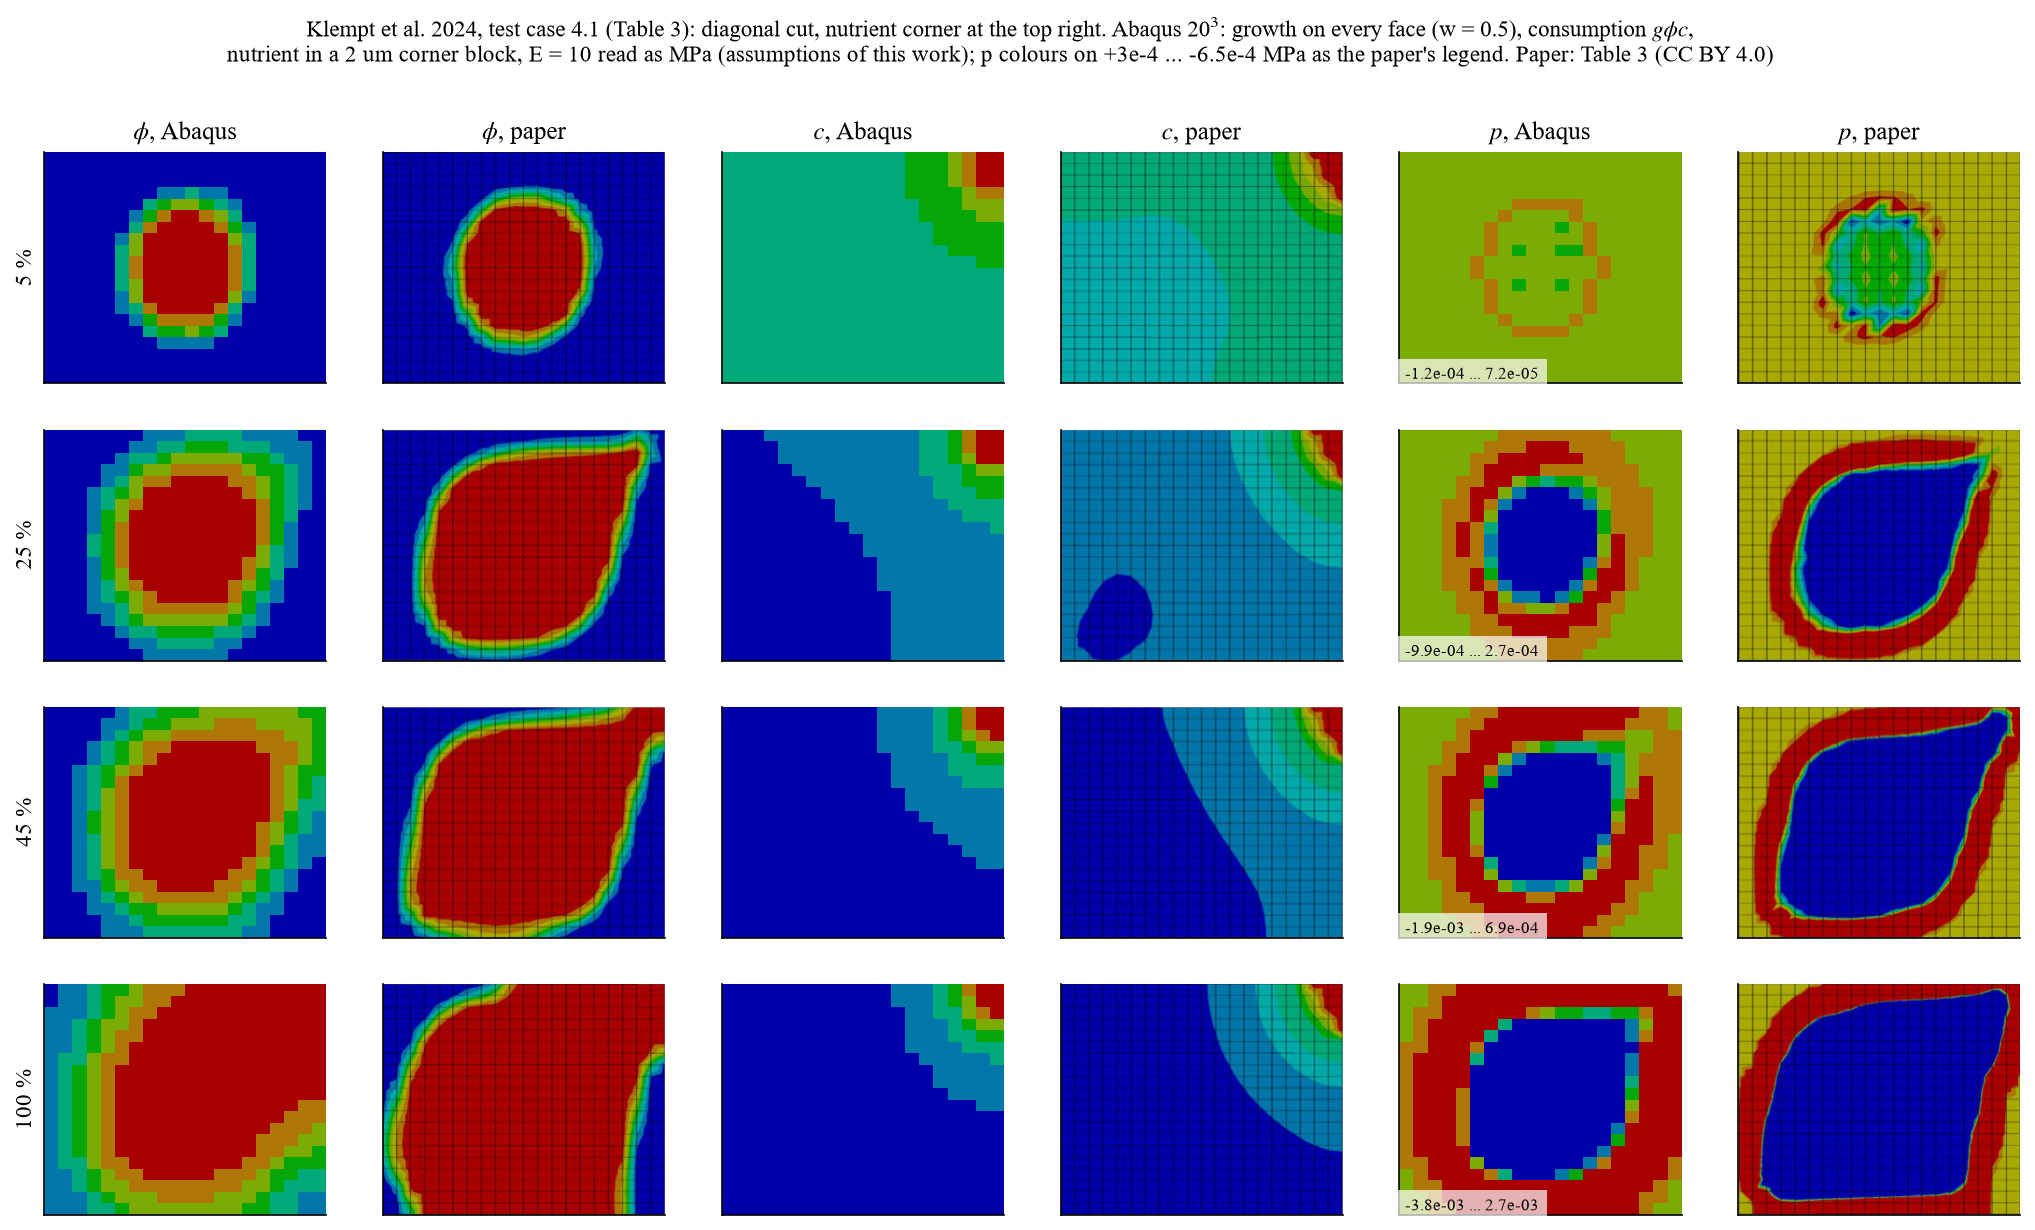
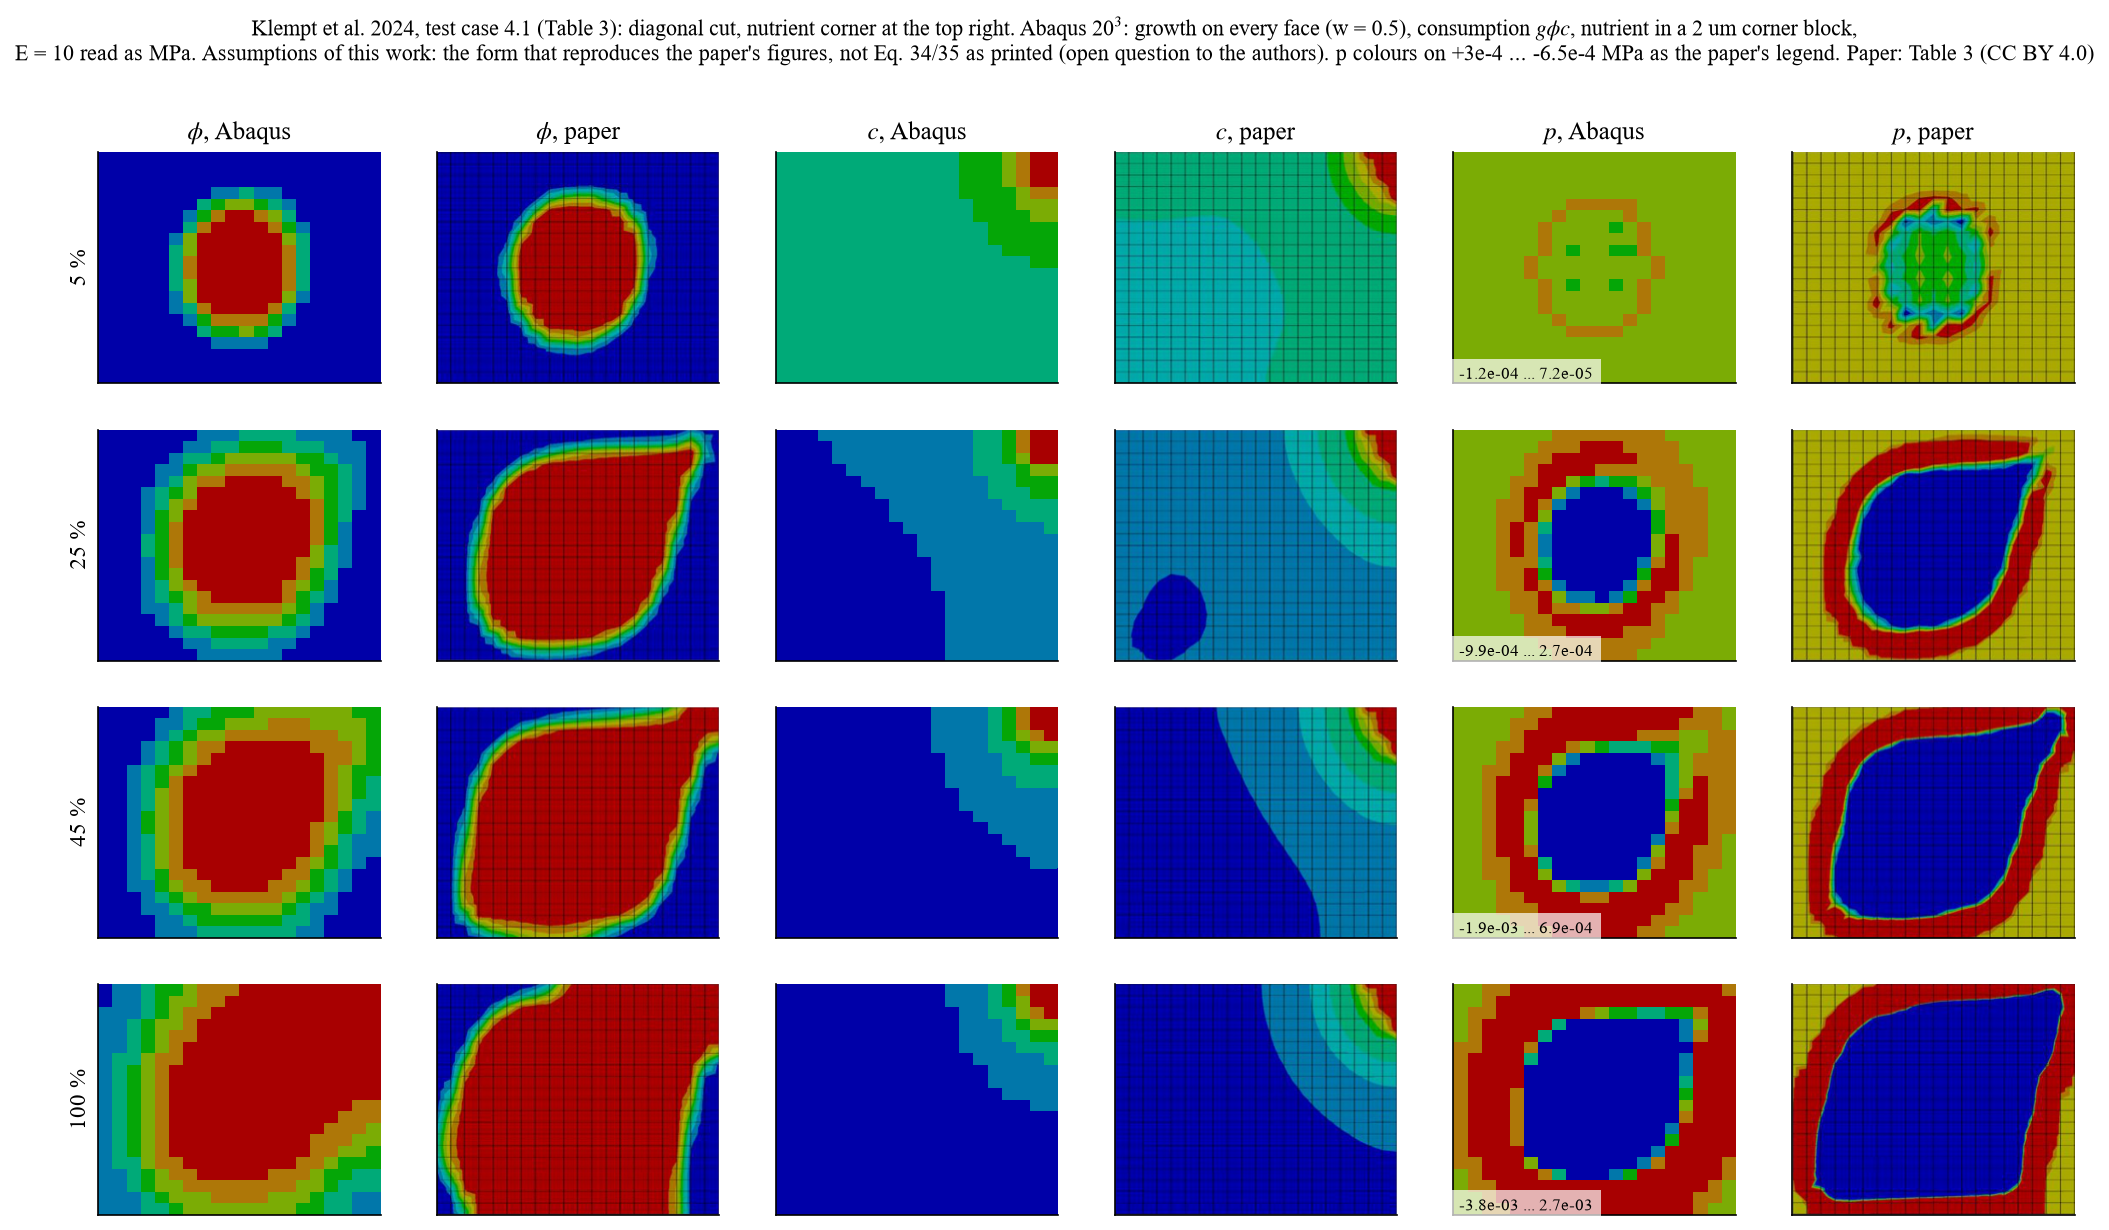
abaqus_composition: assumptions of the 6 Oct runs stated (front term form, consumption 6 as an example input); Table 3 figures say 'not as printed'

diff --git a/abaqus_composition/klempt_table3_fig.py b/abaqus_composition/klempt_table3_fig.py
@@ -103,9 +103,10 @@ def main(dat):
         ax[r, 4].text(0.02, 0.02, f"{p.min():.1e} ... {p.max():.1e}", transform=ax[r, 4].transAxes,
                       fontsize=8, color="k", bbox=dict(fc="w", ec="none", alpha=0.7))
     fig.suptitle("Klempt et al. 2024, test case 4.1 (Table 3): diagonal cut, nutrient corner at the top right. "
-                 "Abaqus 20$^3$: growth on every face (w = 0.5), consumption $g\\phi c$,\nnutrient in a 2 um corner "
-                 "block, E = 10 read as MPa (assumptions of this work); p colours on +3e-4 ... -6.5e-4 MPa as the "
-                 "paper's legend. Paper: Table 3 (CC BY 4.0)", fontsize=11)
+                 "Abaqus 20$^3$: growth on every face (w = 0.5), consumption $g\\phi c$, nutrient in a 2 um corner "
+                 "block,\nE = 10 read as MPa. Assumptions of this work: the form that reproduces the paper's figures, "
+                 "not Eq. 34/35 as printed (open question to the authors). p colours on +3e-4 ... -6.5e-4 MPa as "
+                 "the paper's legend. Paper: Table 3 (CC BY 4.0)", fontsize=10.5)
     fig.savefig(OUT, dpi=150)
     print("wrote", OUT)
 

diff --git a/abaqus_composition/README.md b/abaqus_composition/README.md
@@ -223,6 +223,22 @@ small-strain estimate. (p carries the spherical term of
 DEVIATOR_SCALING_FINDING.md, ~1.3 % at nu = 0.49.) The shapes agree in kind;
 the thin tip towards the corner is missing for every w (sec. 16).
 
+## Front term with two species; composition mesh series (6 Oct 2026, running)
+
+Runs one at a time on 4 CPUs (`F:\abaqus_work\_req_1006.ps1`), each result in
+`results_1006/<job>.txt` (`compare_ansys.py` measures; the ANSYS column is a
+reference only for 8^3). All: case 6, beta = 0.02 mm^2/T*, the seed of the
+ANSYS 8^3 run, T* = 1.0.
+
+1. Front term with two species and the nutrient: `fr8_c6_g6`, `fr16_c6_g6`
+   (`make_cube_inp.py --front 10 --blend 0.5`, dt 0.01), against `nf8_c6_g6`
+   without it.
+2. Composition mesh series: `cs16_c6_g6`, `cs24_c6_g6`, `cs32_c6_g6`.
+
+Assumptions, to be stated wherever these results are shown:
+- **Front term:** growth on every face, w = 0.5, without artificial diffusion. This is the form that reproduces Klempt 2024's figures (sections above; KLEMPT2024_REPRODUCTION.md sec. 15-16), **not Eq. 34 as printed**. The printed form does not converge in the grid. The form actually run is an open question to Felix Klempt. r = 10 mm/T* and k = 1 are Table 2 converted to the 2 mm cube (KLEMPT2024_REPRODUCTION.md sec. 8).
+- **Consumption:** 6 is an example input value (the partner's deck). It is about six times Table 2, which corresponds to consumption 1. With the paper's zero-order form, c drops below 0 where the biofilm is dense (-0.19 on 8^3 at T* = 0.1). The point model then takes c_rel = min(max(c/c_ref, 0), 1) = 0, i.e. no nutrient: `phi_mode_exec.inc`, the same fragment in ANSYS and Abaqus.
+
 ## Biofilm on an implant collar (6 Oct 2026)
 
 `make_implant_inp.py`, `summarize_implant.py`: a 0.25 mm biofilm layer on a
